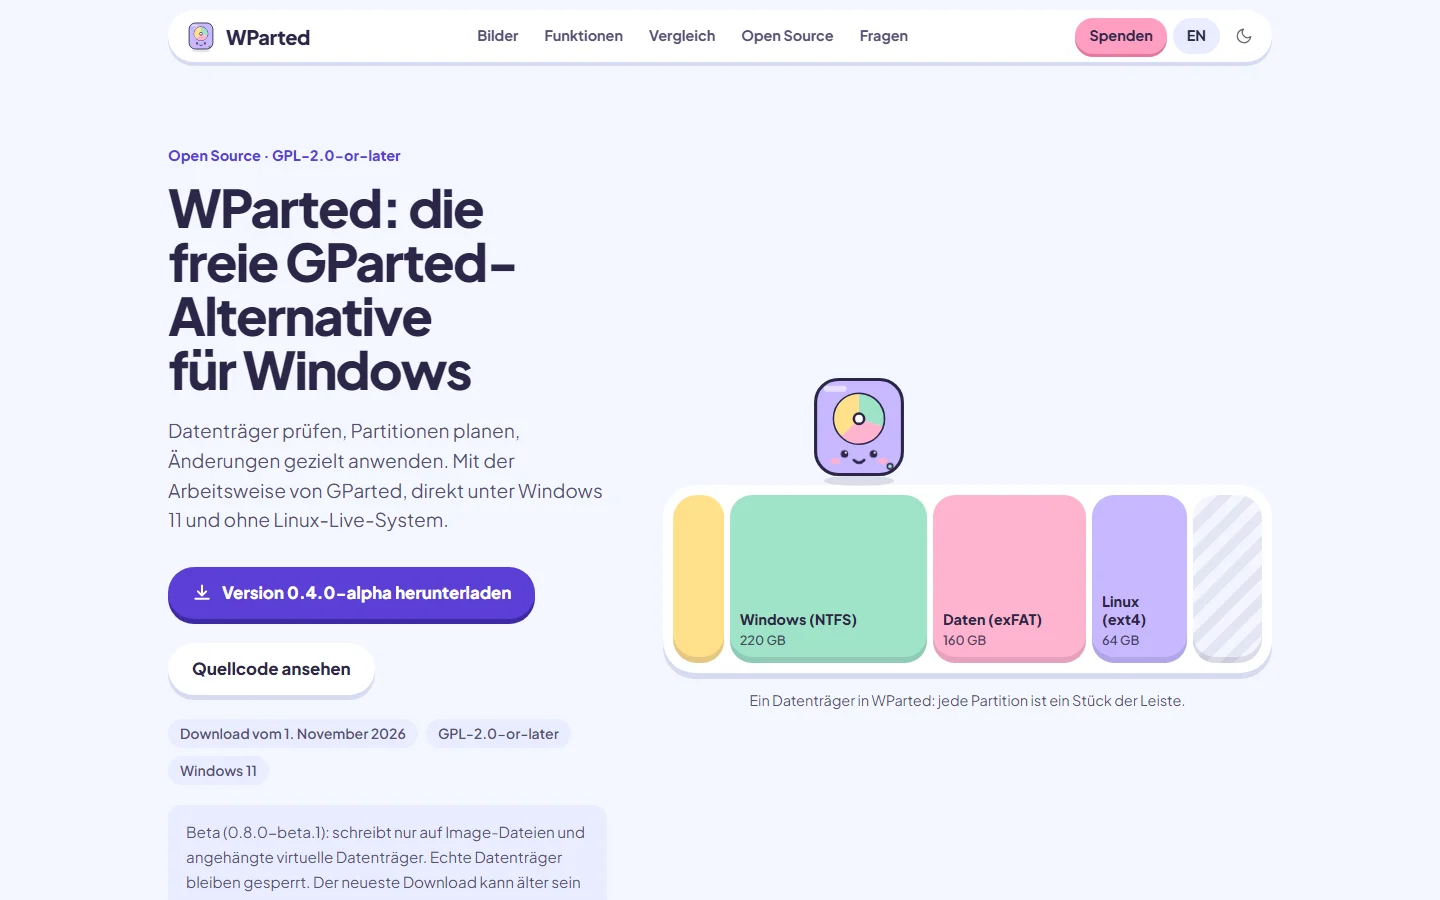
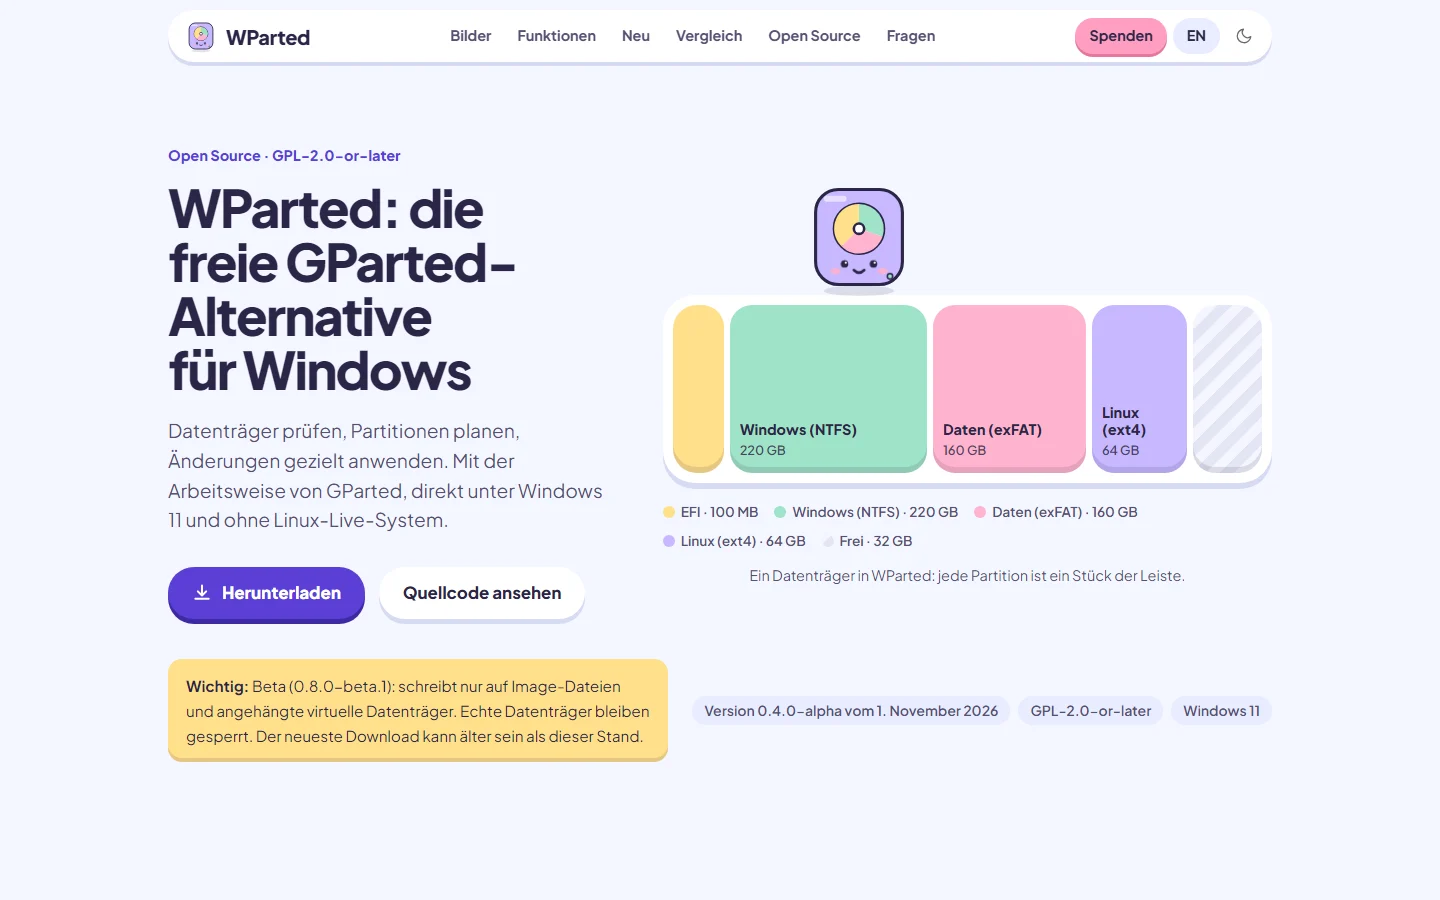
feat: WParted-Referenz mit neuer Oberfläche und dem, was daran besonders ist

Changed region(s): [[0.0938, 0.1867, 0.875, 0.8711], [0.125, 0.9022, 0.4062, 0.9956], [0.3125, 0.0311, 0.6562, 0.0622]]

diff --git a/src/lib/ownProjects.ts b/src/lib/ownProjects.ts
@@ -22,7 +22,7 @@ export interface OwnProject {
   hreflang: Record<Lang, string>;
   /** The service page this card is evidence for. */
   service: ServiceId;
-  copy: Record<Lang, { title: string; text: string; cta: string; alt: string }>;
+  copy: Record<Lang, { title: string; text: string; cta: string; alt: string; highlights?: { label: string; items: string[] } }>;
 }
 
 export const ownProjects: readonly OwnProject[] = [
@@ -38,12 +38,28 @@ export const ownProjects: readonly OwnProject[] = [
         text: "Freier Partitionsmanager für Windows 11, eine GParted-Alternative. Open Source, entwickelt von Julian Tracht. Beta: physische Datenträger bleiben gesperrt.",
         cta: "Quellcode ansehen",
         alt: "WParted mit Datenträgerkarte, Partitionsliste und einer ausstehenden Operation",
+        highlights: {
+          label: "Das Besondere",
+          items: [
+            "Läuft direkt unter Windows, ohne Installation und ohne Linux-Live-System",
+            "Erst planen, dann anwenden; jeder Schritt wird zurückgelesen und geprüft",
+            "Eigene Umsetzung von NTFS, exFAT und ext4, geprüft mit unabhängigen Werkzeugen",
+          ],
+        },
       },
       en: {
         title: "WParted",
         text: "Free partition manager for Windows 11, a GParted alternative. Open source, developed by Julian Tracht. Beta: physical disks stay locked.",
         cta: "View the source",
         alt: "WParted showing a disk map, a partition list and one pending operation",
+        highlights: {
+          label: "What is special",
+          items: [
+            "Runs directly on Windows, with no installation and no Linux live system",
+            "Plan first, then apply; every step is read back and verified",
+            "Own implementation of NTFS, exFAT and ext4, checked with independent tools",
+          ],
+        },
       },
     },
   },

diff --git a/src/lib/ownProjects.test.ts b/src/lib/ownProjects.test.ts
@@ -27,6 +27,12 @@ describe("own projects", () => {
     }
   });
 
+  it("say what is special about the program, in both languages", () => {
+    const program = ownProjects[0]!;
+    expect(program.copy.de.highlights?.items).toHaveLength(3);
+    expect(program.copy.en.highlights?.items).toHaveLength(3);
+  });
+
   it("describe WParted as an alternative in beta, never as GParted itself", () => {
     for (const lang of LANGS) {
       const text = ownProjects[0]!.copy[lang].text;
